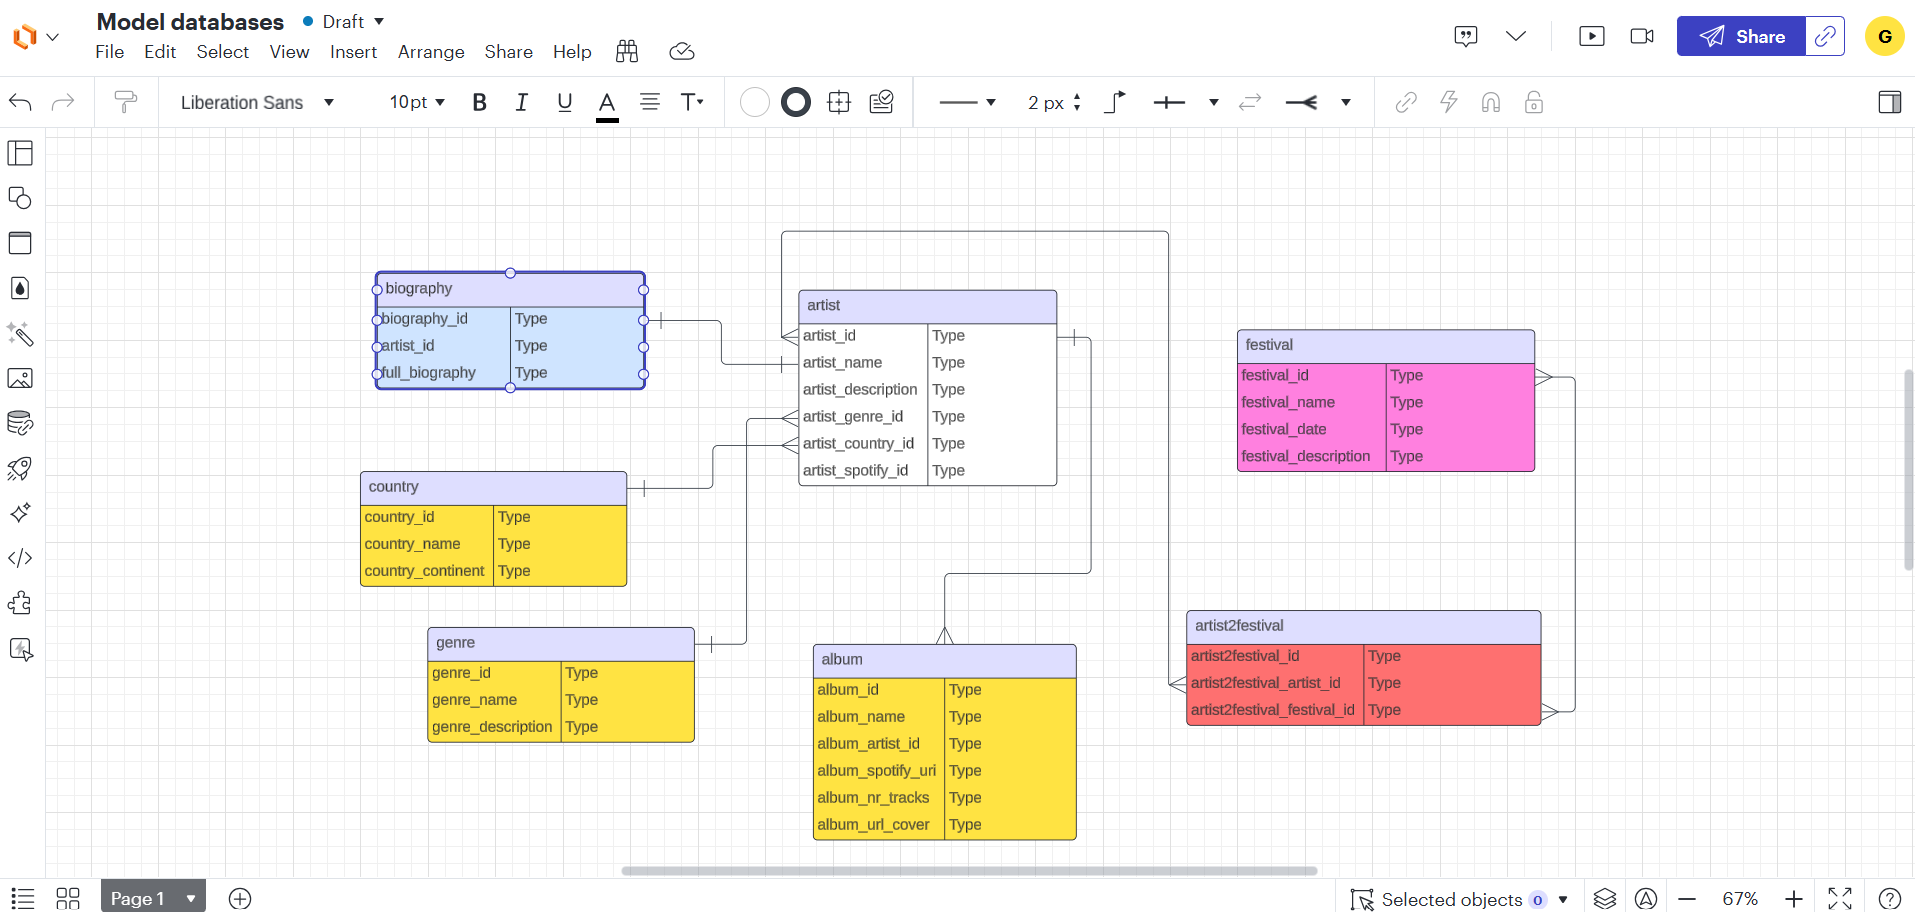
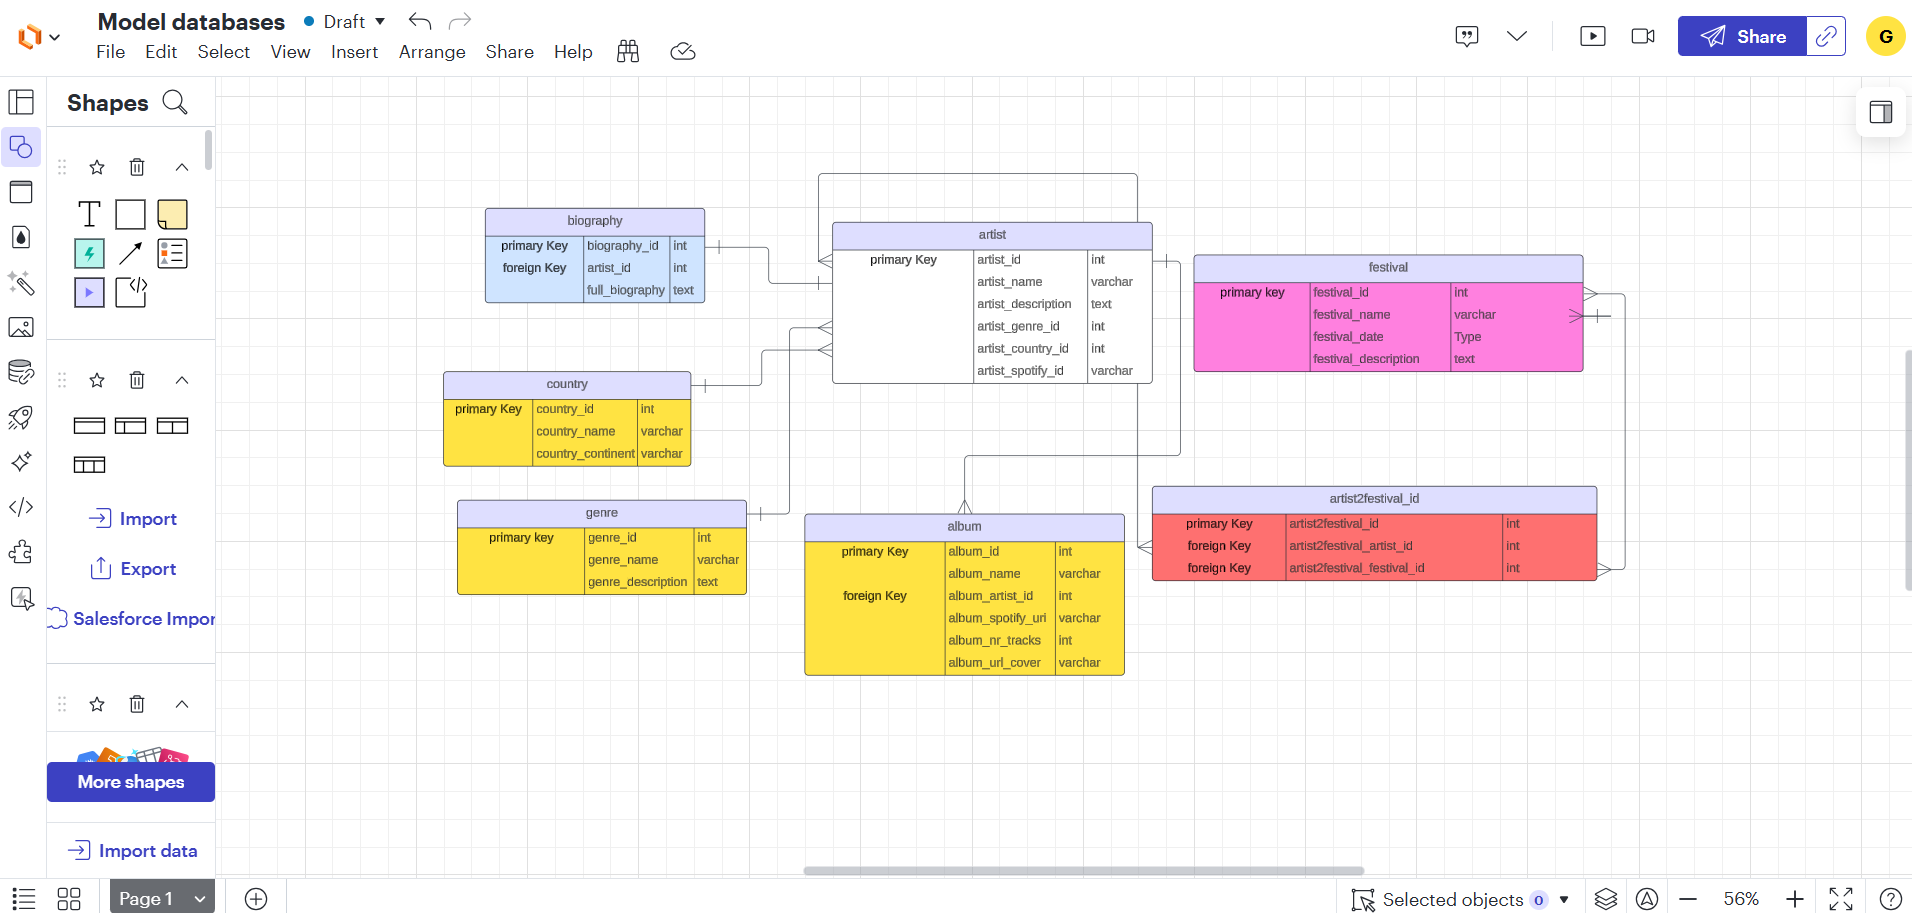
Implementaie feedback van Ties
- keuze voor technische keuzes toegelicht.
- dod aangepast, ik had eerst een definition of ready staan, nu zijn de dod's ook toegvoegd.
- DoR's duidelijker en netter geschreven.
- prioriteit user stories aangepast.
- sprint aangepast met de uren + voortgang bewaking toegevoegd.
- type + foreign/primary gedefinieerd in erd diagram.
- onderbouwing aangepast zodat er vooral ook naar ethiek word gekeken en dus herschreven naar omgang met api mbt. privacy.

diff --git a/Festivalinfo/festival/getchange_festival.php b/Festivalinfo/festival/getchange_festival.php
@@ -84,7 +84,7 @@ $linked_artists = $festival->getlinkedartists($festival_id);
         <select name="artist_id" id="artist_id">
             <?php
             $artists = $artistquery->getallartists();
-            
+
             foreach ($artists as $artist) {
                 echo "<option value='" . $artist['artist_id'] . "'>" . $artist['artist_name'] . "</option>";
             }

diff --git a/opdracht 1/planning.md b/opdracht 1/planning.md
@@ -8,13 +8,14 @@
 
 ---
 
-Dit project is gericht op het creëren van een webapplicatie voor Festivalinfo die gebruik maakt van de Spotify API om gedetailleerde informatie over artiesten op te halen en weer te geven. Door simpelweg de Spotify URI van een artiest in te voeren, zal de applicatie automatisch alle albums en singles van de artiest ophalen en opslaan in een SQL database. Deze informatie kan vervolgens worden weergegeven in een gebruiksvriendelijke HTML-interface.
+Dit project is gericht op het creëren van een webapplicatie voor Festivalinfo die gebruik maakt van de Spotify API om gedetailleerde informatie over artiesten op te halen en weer te geven. Door simpelweg de Spotify URI van een artiest in te voeren, zal de applicatie automatisch alle albums en singles van de artiest ophalen en opslaan in een SQL database. Deze informatie kan vervolgens worden weergegeven in een gebruiksvriendelijke HTML-interface. Er werd specifiek gekozen om met PHP en HTML te werken, simpelweg omdat dit een vereiste was van de stagebegeleider.
 
 ## Projectdoel
 
 ---
 
 Het hoofddoel van dit project is om een efficiënte en gebruiksvriendelijke tool te ontwikkelen die:
+
 1. Festivalorganisatoren en muziekliefhebbers snel toegang geeft tot uitgebreide artiestinformatie.
 2. Makkelijk invoeren van artiesten uit Spotify om up-to-date informatie te genereren.
 3. Een overzichtelijke weergave biedt van alle albums en singles van een artiest.
@@ -31,97 +32,127 @@ Dit project zal worden ontwikkeld met de volgende technieken:
 - SQL: Voor het opslaan en ophalen van artiestgegevens
 - Spotify API: Voor het verkrijgen van actuele artiestinformatie
 
+## Definition of Done
+
+---
+
+- Code is geimplementeerd en functioneert volgens de acceptatiecriteria van de user story.
+- Unit tests zijn geschreven en succesvol uitgevoerd.
+- Nieuwe code breekt geen bestaande functionaliteit.
+- Code is netjes en overzichtelijk geschreven.
+- User story is duidelijk geschreven.
+
 ## Globale wensen en eisen
 
 ---
 
 **Wensen:**
+
 - De applicatie moet alle albums en singles van een artiest tonen.
 - Gebruikers moeten door de discografie van een artiest kunnen bladeren.
-- De interface moet responsief en gebruiksvriendelijk zijn.
+- De weergegeven informatie moet up-to-date zijn met Spotify.
 
 **Eisen:**
+- De interface moet responsief en gebruiksvriendelijk zijn.
 - Gebruikers moeten eenvoudig een Spotify URI kunnen invoeren om artiestinformatie op te halen.
 - De applicatie moet veilig kunnen communiceren met de Spotify API.
 - Artiestgegevens moeten correct worden opgeslagen in de SQL database.
-- De weergegeven informatie moet up-to-date zijn met Spotify.
 
 ## User Stories
 
 ---
 
 ### 1. Spotify URI Invoer
+
 - **Prioriteit:** Hoog
 - **Tijdsindicatie:** 4 uur
 - **Wie:** Als gebruiker van de Festivalinfo applicatie,
 - **Wat:** Wil ik een Spotify URI van een artiest kunnen invoeren,
 - **Waarom:** Zodat ik snel informatie over die artiest kan opvragen.
 - **Realistisch:** Ja, dit is de kern van de applicatie.
-- **Definitie van klaar (DoD):**
+- **Definitie van Ready (DoR):**
   - Er is een invoerveld voor de Spotify URI.
-  - De ingevoerde URI wordt gevalideerd.
-  - Bij een geldige URI wordt de Spotify API aangeroepen.
+  - Validatie van de URI geïmplementeerd.
+  - Succesvolle integratie met Spotify API.
 
 ### 2. Artiestinformatie Ophalen
+
 - **Prioriteit:** Hoog
-- **Tijdsindicatie:** 6 uur
+- **Tijdsindicatie:** 4 uur
 - **Wie:** Als systeem,
 - **Wat:** Wil ik automatisch alle relevante informatie van een artiest ophalen via de Spotify API,
 - **Waarom:** Om een complete dataset van de artiest te verkrijgen.
 - **Realistisch:** Ja, mits we rekening houden met API-limieten.
-- **Definitie van klaar (DoD):**
-  - Connectie met Spotify API is succesvol.
-  - Alle albums en singles worden opgehaald.
-  - De gegevens worden correct geparsed en voorbereid voor opslag.
+- **Definitie van Ready (DoR):**
+  - Succesvolle verbinding met Spotify API.
+  - Volledige en relevante gegevens opgehaald.
+  - Gegevens correct verwerkt en voorbereid.
 
 ### 3. Database Opslag
+
 - **Prioriteit:** Hoog
-- **Tijdsindicatie:** 5 uur
+- **Tijdsindicatie:** 4 uur
 - **Wie:** Als systeem,
 - **Wat:** Wil ik de opgehaalde artiestinformatie opslaan in de SQL database,
 - **Waarom:** Om de gegevens persistent te maken en snel te kunnen ophalen.
 - **Realistisch:** Ja, dit is een standaard databaseoperatie.
-- **Definitie van klaar (DoD):**
-  - Er is een goed ontworpen databaseschema.
-  - Alle relevante gegevens worden correct opgeslagen.
-  - Er zijn geen dubbele entries.
+- **Definitie van Ready (DoR):**
+  - Database schema geïmplementeerd en getest.
+  - Gegevens correct en volledig opgeslagen.
+  - Mechanisme tegen duplicaten geïmplementeerd.
 
 ### 4. Artiestoverzicht Weergeven
+
 - **Prioriteit:** Gemiddeld
-- **Tijdsindicatie:** 8 uur
+- **Tijdsindicatie:** 6 uur
 - **Wie:** Als gebruiker,
 - **Wat:** Wil ik een overzichtelijke weergave zien van alle albums en singles van de artiest,
 - **Waarom:** Om snel inzicht te krijgen in de discografie van de artiest.
 - **Realistisch:** Ja, dit is de hoofdfunctionaliteit van de applicatie.
-- **Definitie van klaar (DoD):**
-  - Er is een duidelijke HTML-structuur voor de weergave.
-  - Albums en singles worden chronologisch weergegeven.
-  - Basis informatie zoals titel, releasedatum en aantal tracks is zichtbaar.
+- **Definitie van Ready (DoR):**
+  - Overzicht correct en gebruiksvriendelijk weergegeven.
+  - Chronologische weergave volledig functioneel.
+  - Relevante informatie duidelijk zichtbaar.
 
 ### 5. Detailweergave Album/Single
+
 - **Prioriteit:** laag
-- **Tijdsindicatie:** 6 uur
+- **Tijdsindicatie:** 4 uur
 - **Wie:** Als gebruiker,
 - **Wat:** Wil ik kunnen doorklikken naar een detailpagina van een album of single,
 - **Waarom:** zodat ik meer specifieke informatie over een release kan zien.
 - **Realistisch:** Ja, dit verbetert de gebruikerservaring.
-- **Definitie van klaar (DoD):**
-  - Er is een aparte pagina voor albumdetails.
-  - Alle tracks van het album worden weergegeven.
-  - Extra informatie zoals duur en populariteit is zichtbaar.
+- **Definitie van Ready (DoR):**
+  - Detailpagina functioneel en toegankelijk.
+  - Tracks en aanvullende informatie volledig weergegeven.
+  - Consistente navigatie en lay-out.
 
 ### 6. Festivaloverzicht incl. artiesten
+
 - **Prioriteit:** laag
-- **Tijdsindicatie:** 4 uur
+- **Tijdsindicatie:** 2 uur
 - **Wie:** Als gebruiker van de Festivalinfo applicatie,
 - **Wat:** Wil ik artiesten kunnen linken aan een festival,
 - **Waarom:** overzichtelijk kan zien welke artiest waar op moet treden.
 - **Realistisch:** Ja, dit is een kwestie van een aantal extra pagina's maken + een database sectie.
-- **Definitie van klaar (DoD):**
-  - Er is een invoerveld voor festivallen.
-  - Er is de mogelijkheid om artiesten toe te voegen aan een festival.
-  - Er is een aparte pagina voor festivallen op een rij.
-  - bij klikken op de festival staan alle gelinkte artiesten.
+- **Definitie van Ready (DoR):**
+
+  - Festivaloverzichtspagina volledig functioneel.
+  - Functionaliteit voor het linken van artiesten aan festivals.
+  - Detailpagina voor festivals met artiestenlijst.
+
+  ### 7. up-to-date houden van de data
+
+- **Prioriteit:** laag
+- **Tijdsindicatie:** 2 uur
+- **Wie:** Als gebruiker van de Festivalinfo applicatie,
+- **Wat:** Wil ik dat de data automatisch word geupdate
+- **Waarom:** zodat de data altijd up to date is.
+- **Realistisch:** opzich wel maar dit is geen vereiste.
+- **Definitie van Ready (DoR):**
+  - Automatische updatefunctionaliteit geïmplementeerd en getest
+  - Data altijd up-to-date zichtbaar voor gebruikers
+  - Documentatie en monitoring aanwezig
 
 ## Planning van dit project
 
@@ -129,13 +160,45 @@ Dit project zal worden ontwikkeld met de volgende technieken:
 
 Dit project zal worden gerealiseerd in 4 sprints van elk 1 dag.
 
-|  Sprint  | User Stories Af te Ronden |
-|----------|----------------------------------------------------------|
-| Sprint 1 | US-1 (Spotify URI Invoer) |
-| Sprint 2 | US-2 (Artiestinformatie Ophalen), US-3 (Database Opslag) |
-| Sprint 3 | US-4 (Artiestoverzicht Weergeven), US-5 (Detailweergave Album/Single)|
-| Sprint 4 | US-6 (Festivaloverzicht incl. artiesten), Testen en Optimalisatie |
+| Sprint   | User Stories Af te Ronden                                                                                       |
+| -------- | --------------------------------------------------------------------------------------------------------------- |
+| Sprint 1 | US-1 (Spotify URI Invoer), US-2 (Artiestinformatie Ophalen)                                                     |
+| Sprint 2 | US-3 (Database Opslag), US-4 (Artiestoverzicht Weergeven)                                                       |
+| Sprint 3 | US-4 (Artiestoverzicht Weergeven), US-5 (Detailweergave Album/Single), US-6 (Festivaloverzicht incl. artiesten) |
+| Sprint 4 | US-7 (Up-to-date houden van data), Testen en Optimalisatie                                                      |
 
-## Voortgang bewaken 
+## Onderbouwing
 
+De uren die aan de verschillende user stories zijn gekoppeld, zijn gebaseerd op een inschatting van de benodigde tijd om de functionaliteiten te realiseren.
+Hierbij hebben we gekeken naar de complexiteit van de taken, eventuele afhankelijkheden tussen user stories en het realistisch indelen van de beschikbare tijd in vier sprints.
 
+Allereerst hebben we de complexiteit beoordeeld.
+Simpele taken, zoals het toevoegen van een invoerveld (US-1) of het koppelen van artiesten aan festivals (US-6), zijn minder tijdsintensief en hebben daarom een lagere tijdsindicatie gekregen.
+Aan de andere kant kosten meer complexe onderdelen, zoals het ophalen van data via de Spotify API (US-2) of het maken van een overzichtelijke lay-out voor artiesten (US-4), meer tijd.
+
+Daarnaast hebben we gekeken naar afhankelijkheden.
+Sommige user stories, zoals het opslaan van gegevens in een database (US-3) en het tonen van een artiestoverzicht (US-4), zijn afhankelijk van de functionaliteit voor het ophalen van data (US-2).
+Dit heeft invloed gehad op de planning en prioriteit.
+
+De planning is verder afgestemd op de beschikbare tijd.
+Om een goede voortgang te waarborgen, hebben we een mix van eenvoudige en complexere taken per sprint ingepland.
+Zo houden we de werkdruk beheersbaar en kunnen we zorgen voor een efficiënte voortgang.
+
+Tot slot hebben we prioriteit gegeven aan de kernfunctionaliteiten van de applicatie, zoals het invoeren van een Spotify URI, het ophalen van artiestinformatie en het opslaan van die informatie in de database (US-1, US-2, US-3).
+Deze onderdelen hebben we voldoende tijd gegeven om stabiliteit en een goede werking te garanderen.
+Minder essentiële, maar gebruikersvriendelijke functies, zoals het koppelen van artiesten aan festivals (US-6) of het automatisch up-to-date houden van data (US-7), hebben minder tijd toegewezen gekregen.
+
+Met deze aanpak zorgen we ervoor dat alle belangrijke functies binnen de beschikbare tijd gerealiseerd worden, met in Sprint 4 nog ruimte voor testen en optimalisatie.
+
+## Voortgang bewaken
+
+### Voortgangsbewaking
+
+Gedurende de sprints heb ik de voortgang van het project nauwlettend bewaakt en waar nodig aanpassingen gemaakt om ervoor te zorgen dat we belangrijke functionaliteiten niet uit het oog verloren. 
+
+De implementatie van **User Story 2 (Artiestinformatie Ophalen)** bleek meer tijd te kosten dan oorspronkelijk ingeschat, waardoor deze moest worden verplaatst naar Sprint 2.
+Dit had gevolgen voor de planning van **User Story 4 (Artiestoverzicht Weergeven)**, waarvan een groter gedeelte nu in Sprint 3 moest worden opgenomen om alles op tijd af te krijgen.
+Als gevolg hiervan heb ik **User Story 6 (Festivaloverzicht incl. artiesten)** naar Sprint 4 moeten verschuiven, aangezien er niet voldoende tijd meer over was in Sprint 3 om deze af te ronden.
+Ook heb ik **User Story 7** geschrapt, zodat er voldoende ruimte overbleef voor testen en het optimaliseren van de reeds gerealiseerde functionaliteiten.
+
+Door deze aanpassingen te maken, kon ik ervoor zorgen dat de belangrijkste functionaliteiten werden voltooid en er voldoende tijd overbleef voor grondig testen in de laatste sprint.

diff --git a/opdracht 2/onderbouwing.md b/opdracht 2/onderbouwing.md
@@ -1,16 +1,18 @@
 ### Ethiek
-Bij het ontwerp van deze database heb ik rekening gehouden met ethiek door alleen openbare gegevens van artiesten en festivals te verzamelen en op te slaan. De gegevens die worden toegevoegd, zoals de naam van de artiest, het genre en de Spotify URI, zijn al openbaar beschikbaar. Er is dus bewust gekozen om alleen gegevens op te slaan die niet privé zijn en die iedereen online kan vinden. Dit voorkomt onnodige inbreuk op de privacy van de artiesten.
+Bij het ontwerp van deze database is bewust gekozen om alleen openbare gegevens van artiesten en festivals te verzamelen en op te slaan. Denk hierbij aan gegevens zoals de naam van de artiest, het genre en de Spotify URI. Omdat deze informatie via de Spotify API openbaar beschikbaar wordt gesteld, is het gebruik ervan volledig in lijn met de richtlijnen van Spotify. De API is specifiek bedoeld om dit soort data toegankelijk te maken, zolang het op een correcte en transparante manier wordt gebruikt. Door ons hier strikt aan te houden, voorkomen we dat persoonlijke of gevoelige informatie van artiesten wordt verzameld, wat belangrijk is om hun privacy te beschermen.
 
-Daarnaast is het platform bedoeld om bezoekers te informeren over artiesten en festivals zonder dat gebruikers zelf iets kunnen aanpassen. Dit zorgt ervoor dat de gegevens betrouwbaar en accuraat blijven. Door aanpassingsrechten alleen aan de admin toe te wijzen, worden onbedoelde wijzigingen door bezoekers voorkomen, wat de kwaliteit van de gegevens ten goede komt en ethisch verantwoord is.
+Het platform heeft als doel bezoekers te informeren over artiesten en festivals. Gebruikers kunnen alleen door de informatie bladeren en hebben geen mogelijkheid om gegevens aan te passen. Dit zorgt ervoor dat de data betrouwbaar blijft en niet verkeerd wordt weergegeven, iets wat ook belangrijk is volgens de voorwaarden van Spotify. Door de beheermogelijkheden exclusief bij admins te houden, blijft de kwaliteit van de gegevens hoog en wordt er ethisch verantwoord met de informatie omgegaan.
 
 ### Privacy
-In dit ontwerp heb ik privacy gewaarborgd door uitsluitend openbare gegevens van artiesten en festivals te gebruiken. Er worden dus geen persoonlijke gegevens van artiesten opgeslagen die niet al openbaar toegankelijk zijn, wat bijdraagt aan de bescherming van hun privacy. Alle informatie over artiesten wordt bijvoorbeeld verkregen via de Spotify API, wat alleen publieke data ophaalt. Dit voorkomt dat onnodige of privé-informatie per ongeluk wordt opgeslagen.
+Bij het ontwerp van deze database is privacy gewaarborgd door uitsluitend gegevens te gebruiken die via de Spotify API openbaar beschikbaar zijn gesteld. Deze API levert alleen publieke informatie, zoals de naam van een artiest, het genre en de Spotify URI, en staat expliciet toe dat deze gegevens worden gebruikt binnen het doel waarvoor ze zijn verstrekt. Er worden geen persoonlijke of gevoelige gegevens verzameld of opgeslagen, wat niet alleen ethisch verantwoord is, maar ook voldoet aan de regels van Spotify. Het gebruik is in lijn met de richtlijnen omdat er geen gegevens worden gemanipuleerd, commercieel verkocht of opgeslagen op een manier die buiten de API-doelstellingen valt.
 
-Bovendien hebben alleen beheerders bewerkrechten. Bezoekers kunnen enkel door de database bladeren zonder iets aan te passen. Op deze manier blijft de privacy van de gegevens gewaarborgd, aangezien gebruikers alleen leesrechten hebben en er geen gevoelige of niet-openbare gegevens worden opgeslagen.
+Om te voorkomen dat gegevens op ongepaste manieren worden gebruikt, hebben alleen beheerders toegang tot bewerkingsrechten. Bezoekers kunnen uitsluitend door de database bladeren en hebben geen mogelijkheid om gegevens aan te passen. Hierdoor blijft de integriteit van de informatie gewaarborgd en wordt voorkomen dat niet-openbare of gevoelige gegevens worden verwerkt. Deze benadering sluit aan bij Spotify’s voorwaarden, waarin wordt geëist dat data niet langdurig wordt opgeslagen en uitsluitend wordt gebruikt voor legitieme en transparante doeleinden.
 
 ### Security
-Voor de beveiliging is vooral toegangsbeheer van belang in dit ontwerp. Alleen de admin heeft rechten om artiesten, albums en festivals toe te voegen of aan te passen. Deze beperkingen zijn belangrijk om te voorkomen dat gebruikers per ongeluk of opzettelijk gegevens kunnen wijzigen, wat de dataveiligheid waarborgt en de kans op fouten vermindert.
+Voor de beveiliging van dit systeem is het vooral belangrijk dat er strikte toegangscontrole is. Alleen de admin heeft rechten om artiesten, albums en festivals toe te voegen of aan te passen. Dit voorkomt dat gewone gebruikers gegevens per ongeluk of opzettelijk kunnen wijzigen, wat de dataveiligheid waarborgt en de kans op fouten verkleint. Het platform is dus zo ingesteld dat de toegang tot het invoeren van gegevens volledig beperkt is tot beheerders, terwijl alle andere gebruikers alleen leesrechten hebben (read-only). Dit betekent dat gebruikers de informatie kunnen bekijken, maar niet kunnen aanpassen, wat extra bescherming biedt tegen ongewenste wijzigingen.
 
-Ook heb ik aandacht besteed aan het correct vastleggen van relaties tussen artiesten en festivals met behulp van een koppeltabel. Dit zorgt ervoor dat de data-integriteit gewaarborgd blijft en dat de juiste artiesten aan de juiste festivals worden gekoppeld. Verder wordt de Spotify API alleen door de admin gebruikt, wat externe beveiligingsrisico’s verkleint. De API wordt toegepast om publieke informatie van artiesten op te halen met behulp van hun unieke URI, wat ervoor zorgt dat alleen de correcte albums aan de juiste artiesten gekoppeld worden.
+Daarnaast heb ik gezorgd voor een solide technische structuur door relaties tussen artiesten en festivals vast te leggen via een koppeltabel. Dit zorgt ervoor dat de integriteit van de gegevens behouden blijft en dat de juiste artiesten aan de juiste festivals worden gekoppeld. Ook wordt de Spotify API alleen gebruikt door de admin, wat betekent dat externe beveiligingsrisico’s geminimaliseerd worden. De API haalt enkel publieke informatie op, zoals artiesten en hun albums, en doordat alleen de admin deze informatie kan invoeren, blijft alles veilig en gecontroleerd.
 
-Door ethiek, privacy en security op deze manier te integreren, is het systeem gebruiksvriendelijk voor bezoekers en blijft de informatie beschermd en betrouwbaar voor beheerdoeleinden.
+Door ethiek, privacy en security op deze manier te integreren, blijft het systeem zowel gebruiksvriendelijk voor bezoekers als veilig en betrouwbaar voor beheerders die verantwoordelijk zijn voor het invoeren van gegevens.
+
+
